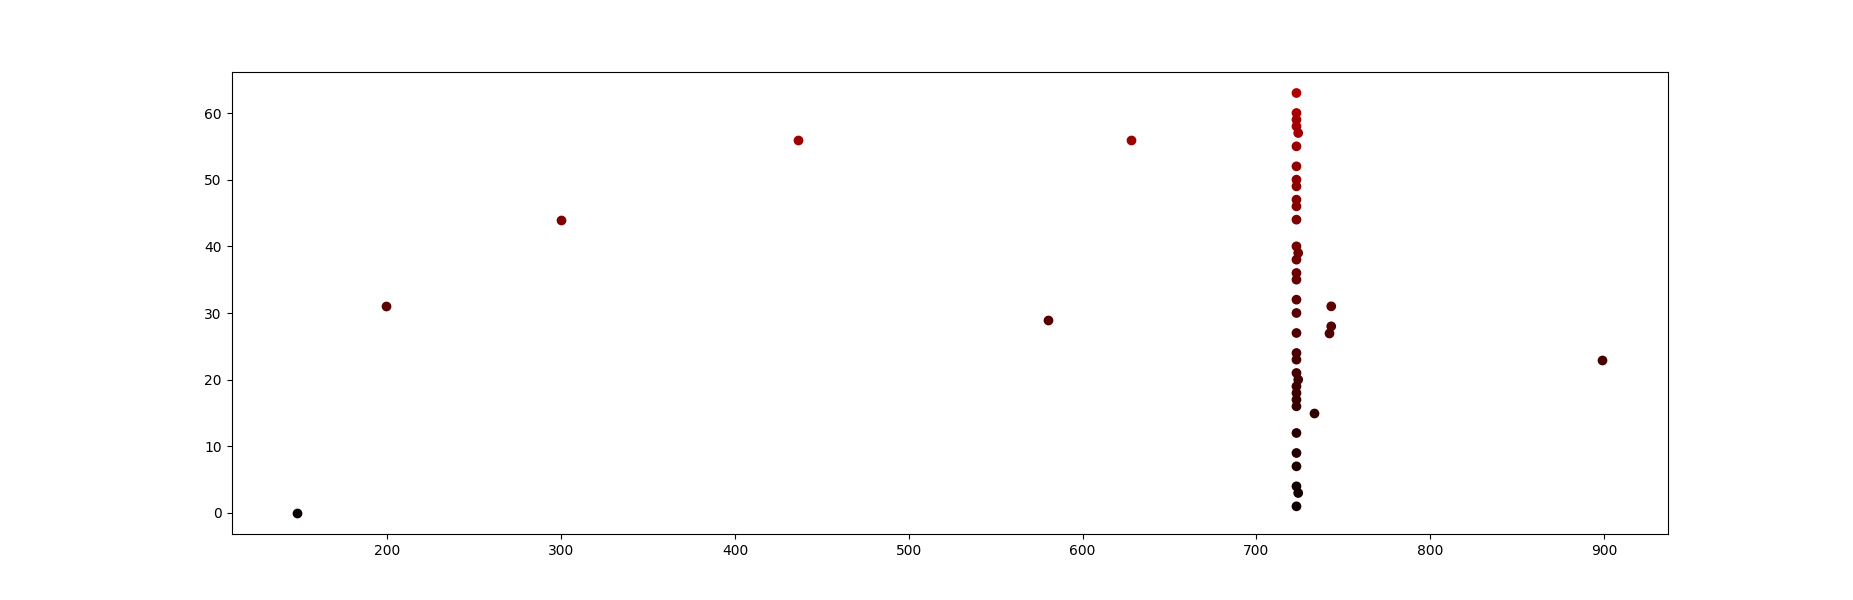
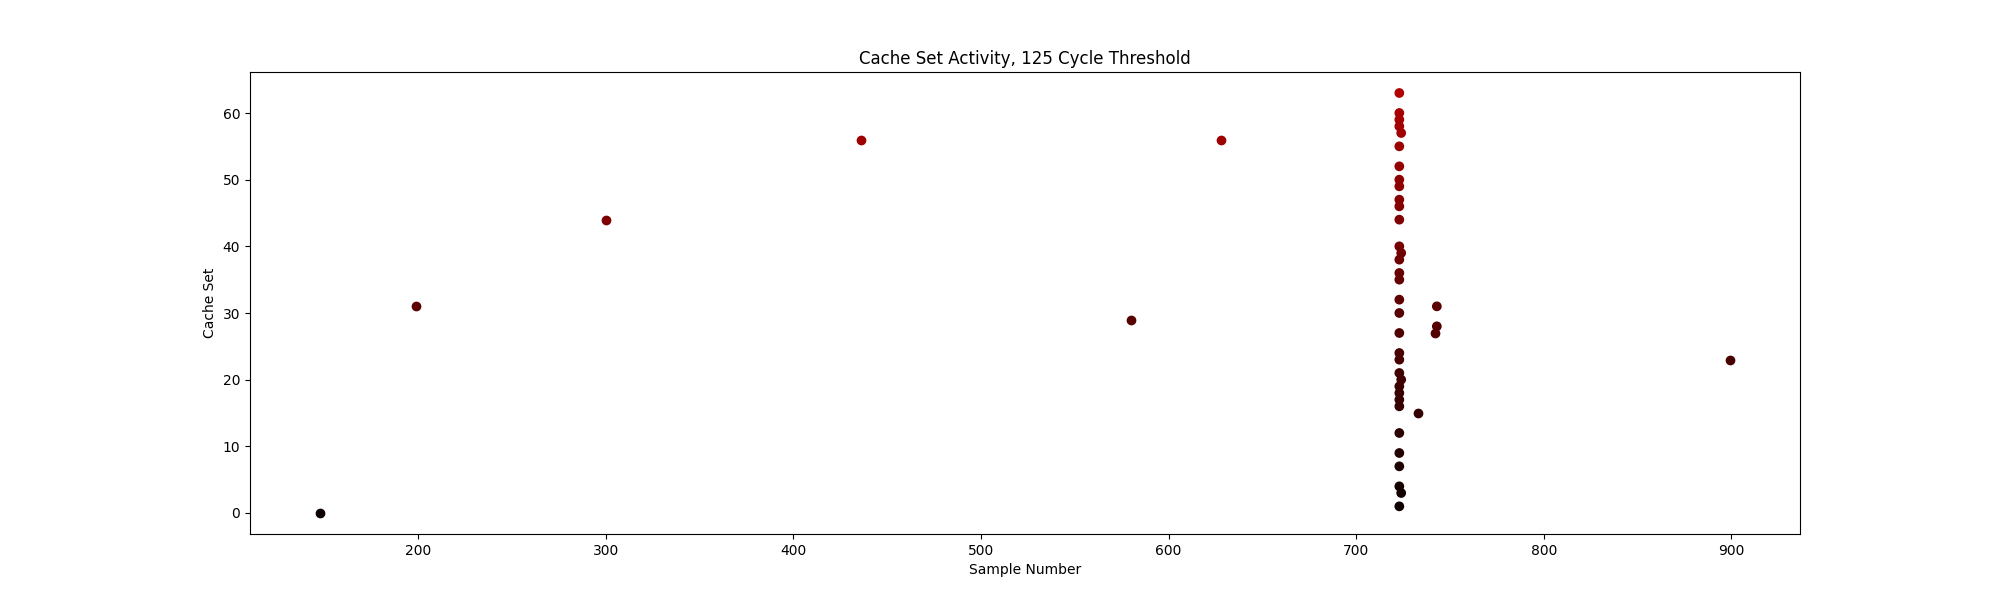
Change done to Set plot script. Updated 1k sample plot.

diff --git a/source/plot_scripts/Set_plot_trace.py b/source/plot_scripts/Set_plot_trace.py
@@ -53,4 +53,9 @@ fig, axes = plt.subplots(nrows=1, ncols=1, figsize=(20, 6))
 for x, y in zip(samples, cache_trace):
     plt.scatter([x] * len(y), y, c=cm.hot(y))
 
+##plt.ylim([0, 200])
+plt.xlabel("Sample Number")
+plt.ylabel("Cache Set")
+plt.title("Cache Set Activity, 125 Cycle Threshold")
+
 plt.show()
